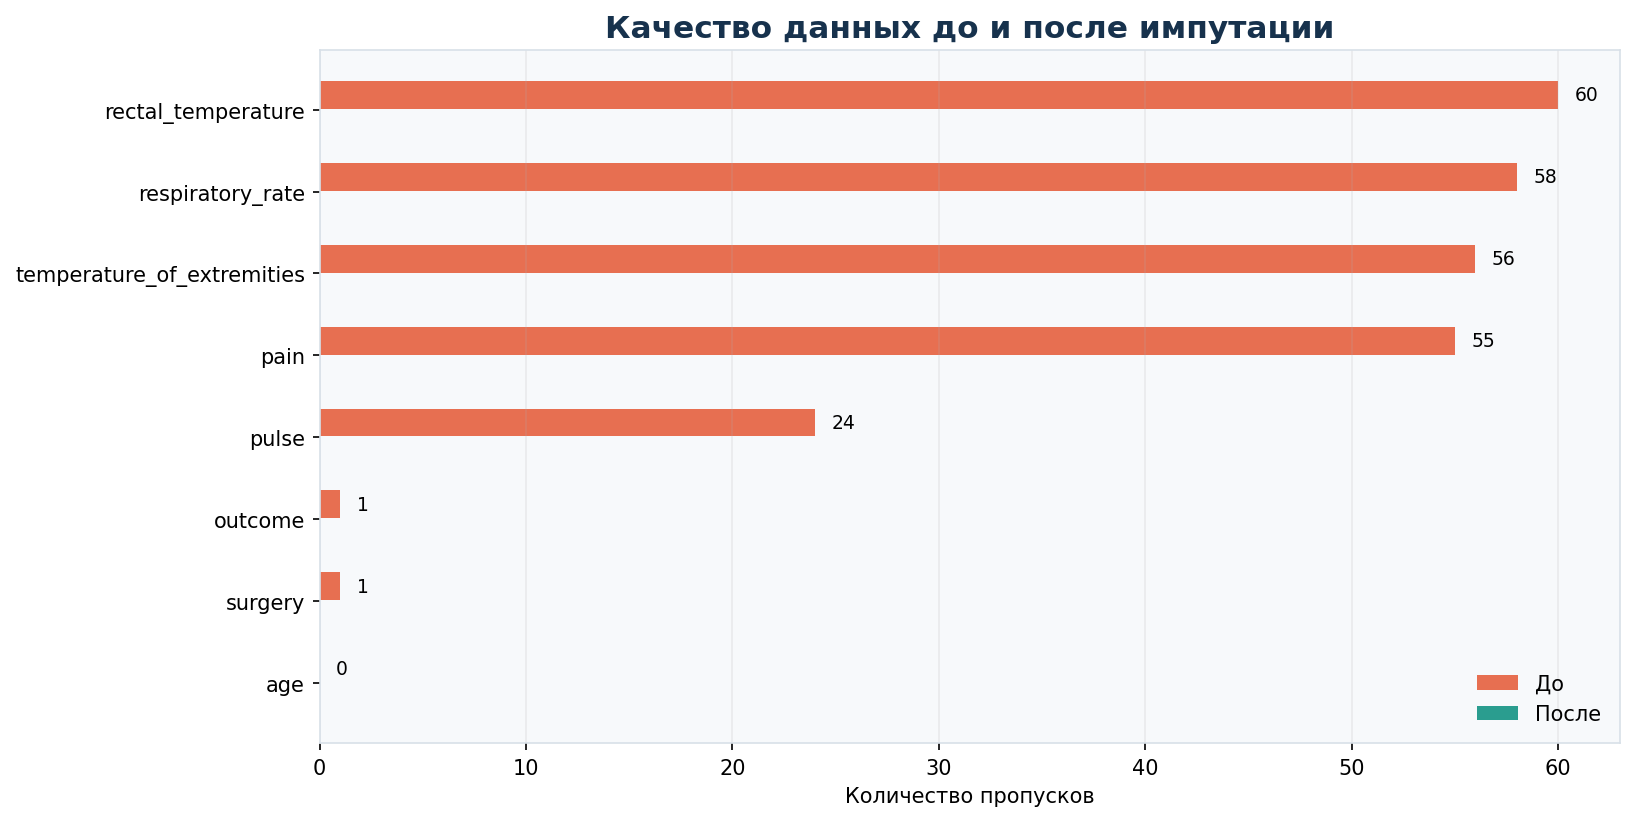
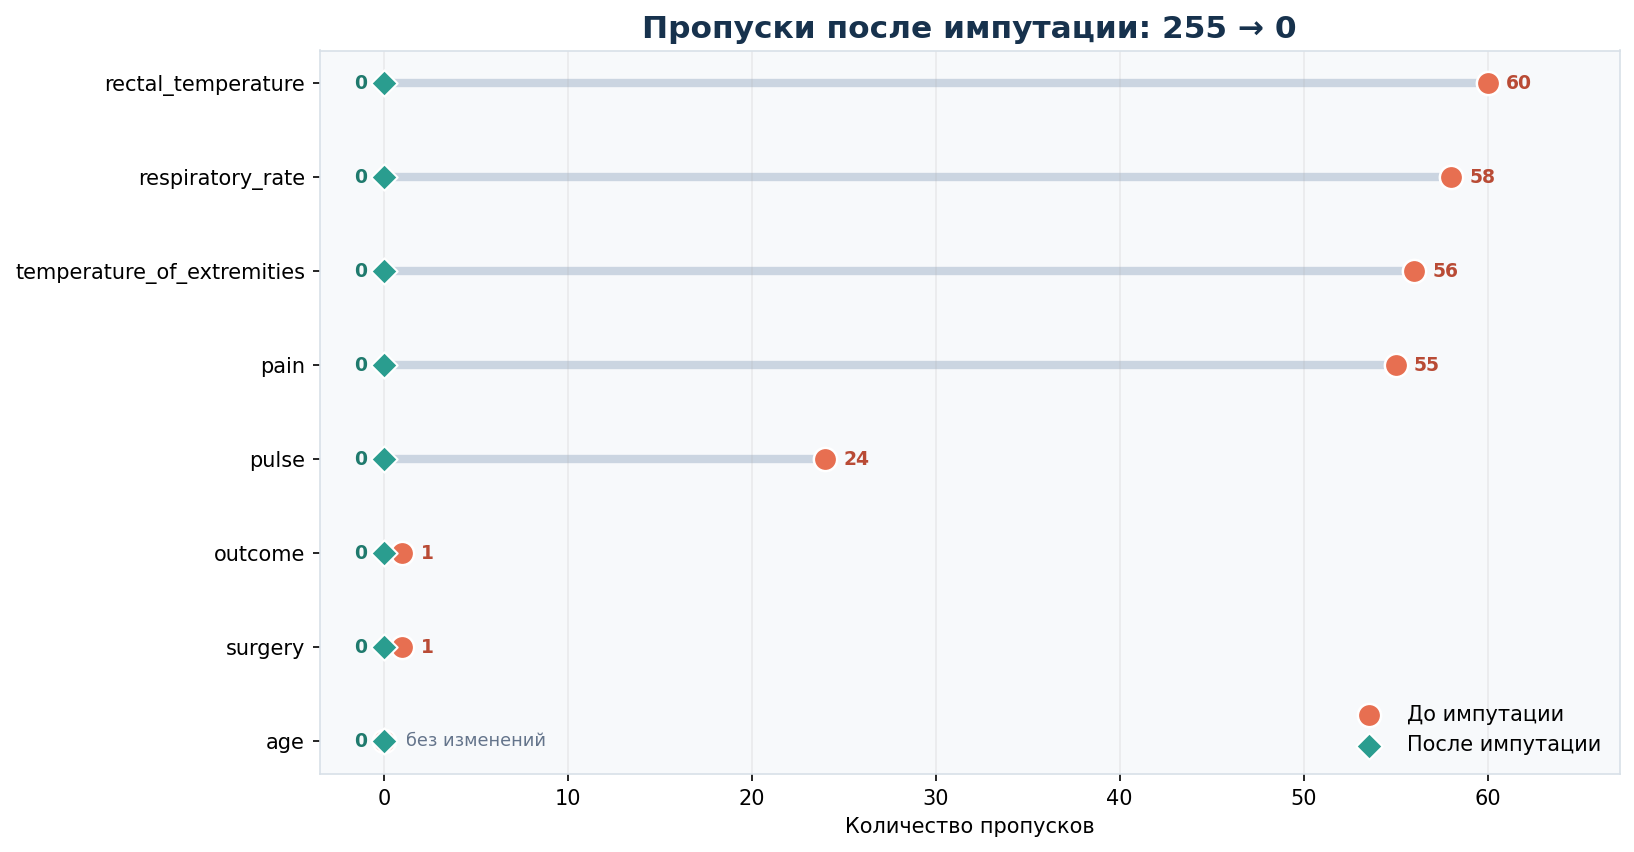
Fix Horse Colic before-after chart

diff --git a/horse-colic-eda/README.md b/horse-colic-eda/README.md
@@ -8,7 +8,9 @@ EDA, поиск аномалий и обоснованная импутация 
 |---:|---:|---:|---:|---:|
 | 300 | 8 | 255 | 33 | **0** |
 
-![Качество данных до и после импутации](assets/data_quality_overview.png)
+![Сокращение пропусков с 255 до 0](assets/data_quality_overview.png)
+
+Оранжевая точка показывает число пропусков до обработки, зелёный ромб — после неё. Для каждого признака результат после импутации равен нулю.
 
 ## Задача
 
